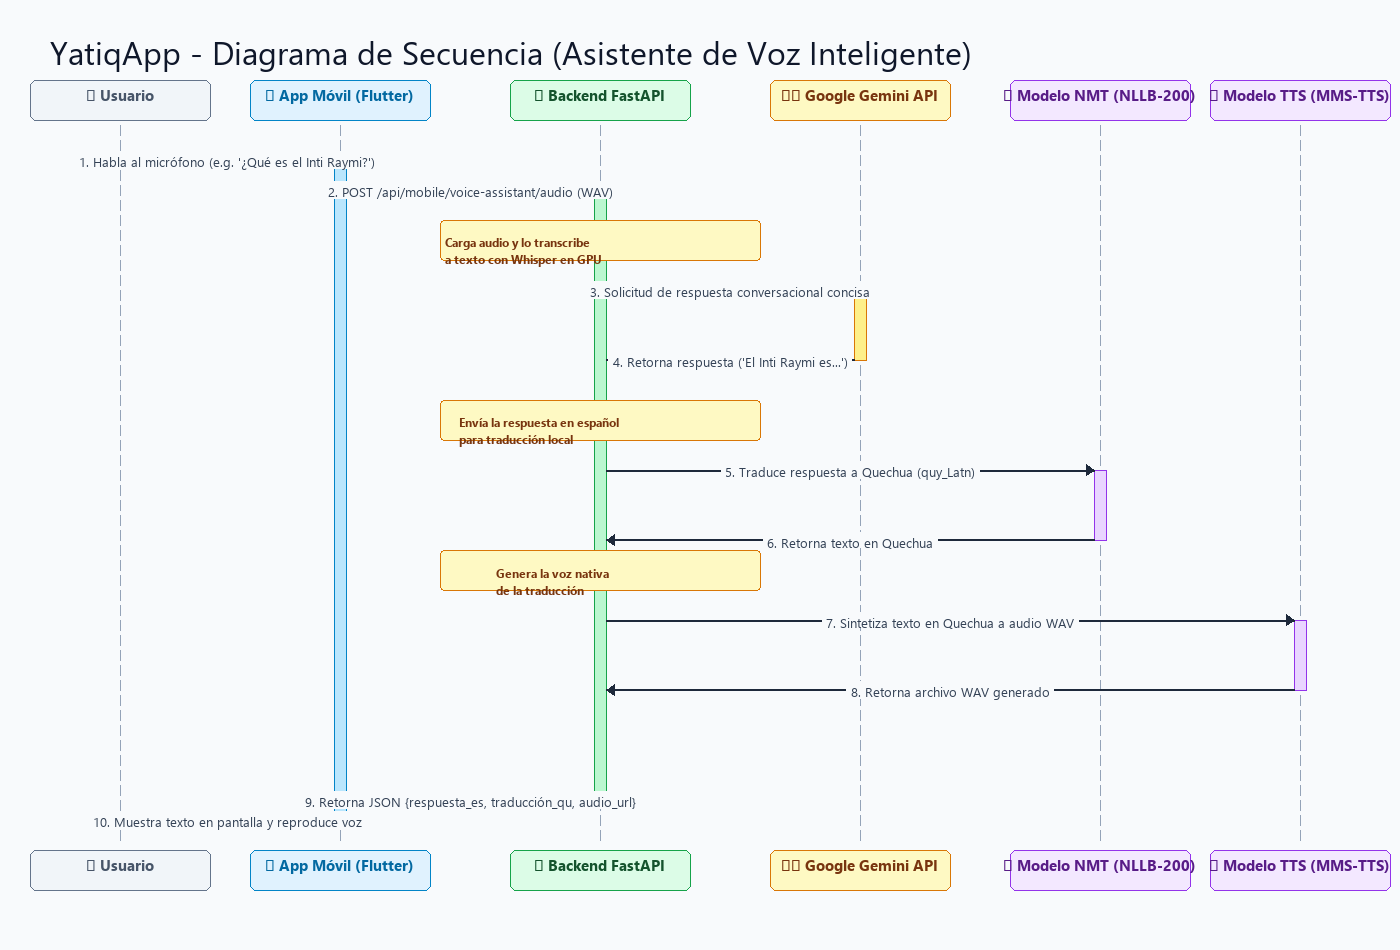
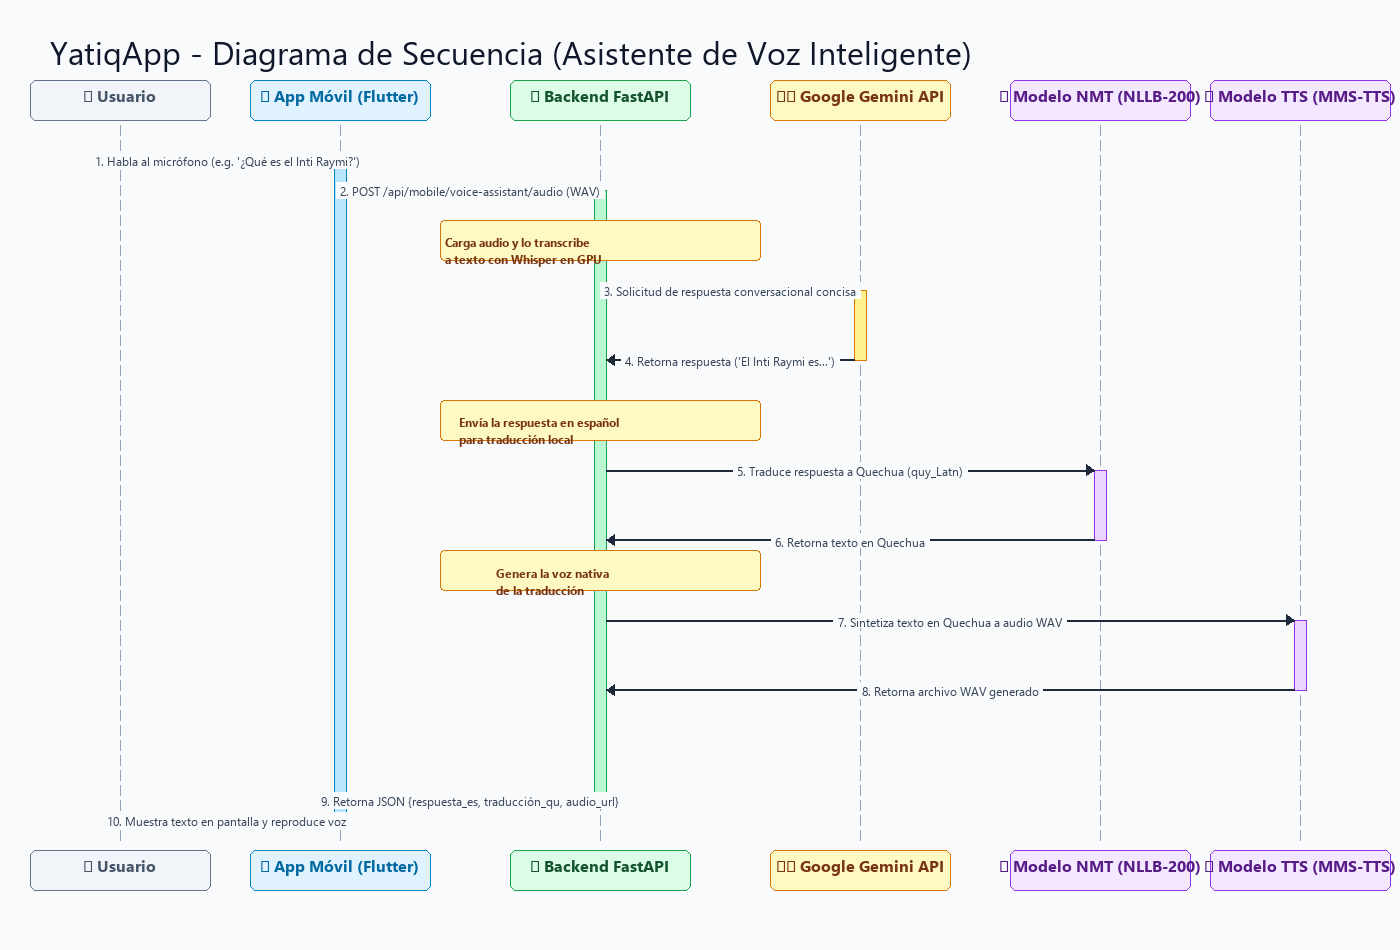
mejorar diagramas graficos lucidchart en entregable3 y entregable4

diff --git a/docs/BraynerAnibalMamaniCalcina/entregable3.md b/docs/BraynerAnibalMamaniCalcina/entregable3.md
@@ -54,6 +54,11 @@ La comunicación entre los componentes se realiza mediante el protocolo HTTP emp
 
 ##### Esquema de Integración de Llamadas de Red
 
+![Esquema de Integración de Llamadas de Red](llamadas_red.png)
+
+<details>
+<summary>💻 Código Fuente del Diagrama (Mermaid)</summary>
+
 ```mermaid
 sequenceDiagram
     autonumber
@@ -72,6 +77,7 @@ sequenceDiagram
     FastAPI -->> Laravel: Retorna métricas ChrF++ y BLEU
     Laravel -->> Usuario: Renderiza tabla comparativa en la UI
 ```
+</details>
 
 ---
 